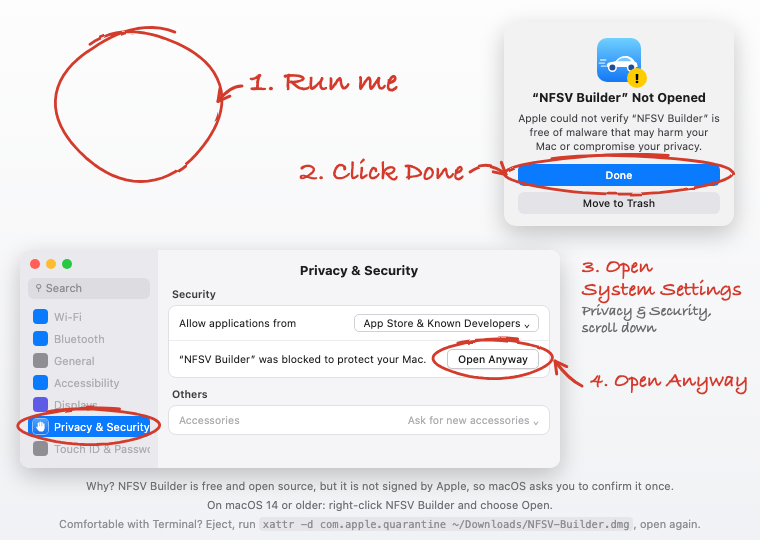
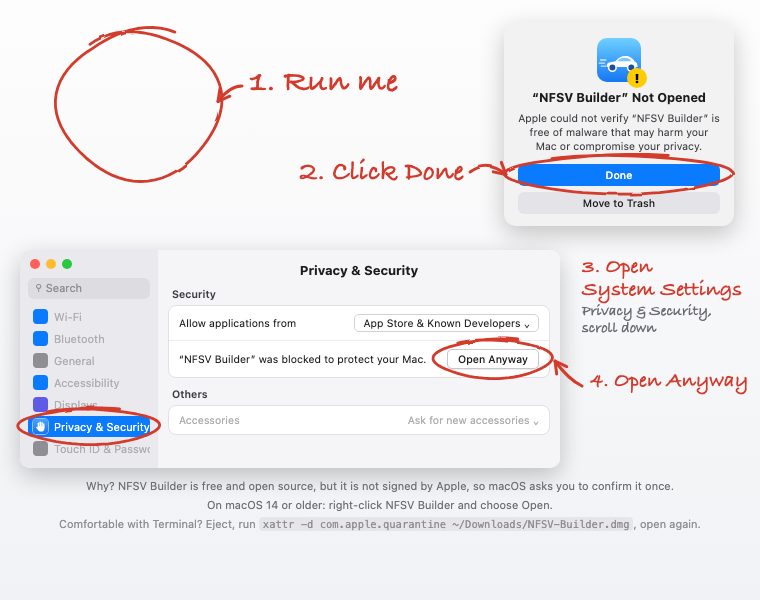
Keep DMG notes visible with Finder bars

diff --git a/builder/dmg/background.html b/builder/dmg/background.html
@@ -2,7 +2,7 @@
 <html><head><meta charset="utf-8"><title>NFSV Builder DMG background</title>
 <style>
 html,body{margin:0;padding:0;background:#f1f2f5}
-.cv{position:relative;overflow:hidden;font:13px -apple-system,BlinkMacSystemFont,"SF Pro Text",sans-serif;color:#1d1d1f;width:760px;height:540px;background:linear-gradient(#fdfdfd,#f1f2f5)}
+.cv{position:relative;overflow:hidden;font:13px -apple-system,BlinkMacSystemFont,"SF Pro Text",sans-serif;color:#1d1d1f;width:760px;height:600px;background:linear-gradient(#fdfdfd,#f1f2f5)}
 .abs{position:absolute}
 .hand{font-family:"Bradley Hand","Chalkboard SE","Marker Felt",cursive;font-weight:700;color:#d33a2c;line-height:1.1;white-space:nowrap}
 .hand small{display:block;font-size:15px;color:#6b6b70;font-weight:600;margin-top:2px}
@@ -85,14 +85,14 @@ svg.ink path{fill:none;stroke:#d33a2c;stroke-linecap:round;stroke-linejoin:round
     <div class="abs hand" id="n4" style="left:590px;top:370px;font-size:21px">4. Open Anyway
       </div>
 
-    <svg class="ink" id="ink" width="760" height="540" viewBox="0 0 760 540">
+    <svg class="ink" id="ink" width="760" height="600" viewBox="0 0 760 600">
       <defs><filter id="pencil"><feTurbulence type="fractalNoise" baseFrequency="0.04" numOctaves="2" seed="3" result="n"/><feDisplacementMap in="SourceGraphic" in2="n" scale="2.2"/></filter></defs>
       <g id="strokes" filter="url(#pencil)"></g>
     </svg>
 
-    <div class="abs tip" style="bottom:48px;color:#6e6e73">Why? NFSV Builder is free and open source, but it is not signed by Apple, so macOS asks you to confirm it once.</div>
-    <div class="abs tip" style="bottom:29px;color:#6e6e73">On macOS 14 or older: right-click NFSV Builder and choose Open.</div>
-    <div class="abs tip" style="bottom:10px">Comfortable with Terminal? Eject, run <span class="cmd">xattr -d com.apple.quarantine ~/Downloads/NFSV-Builder.dmg</span>, open again.</div>
+    <div class="abs tip" style="bottom:108px;color:#6e6e73">Why? NFSV Builder is free and open source, but it is not signed by Apple, so macOS asks you to confirm it once.</div>
+    <div class="abs tip" style="bottom:89px;color:#6e6e73">On macOS 14 or older: right-click NFSV Builder and choose Open.</div>
+    <div class="abs tip" style="bottom:70px">Comfortable with Terminal? Eject, run <span class="cmd">xattr -d com.apple.quarantine ~/Downloads/NFSV-Builder.dmg</span>, open again.</div>
   </div>
 </div>
 <script>

diff --git a/builder/dmg/settings.py b/builder/dmg/settings.py
@@ -28,8 +28,9 @@ show_tab_view = False
 show_toolbar = False
 show_pathbar = False
 show_sidebar = False
-# 540 content + 28 title bar
-window_rect = ((200, 120), (760, 568))
+# 600 background + 28 title bar; the bottom 60 px are blank so Finder's
+# path bar and status bar (if enabled) never cover the notes.
+window_rect = ((200, 120), (760, 628))
 default_view = "icon-view"
 icon_size = 86
 text_size = 12
